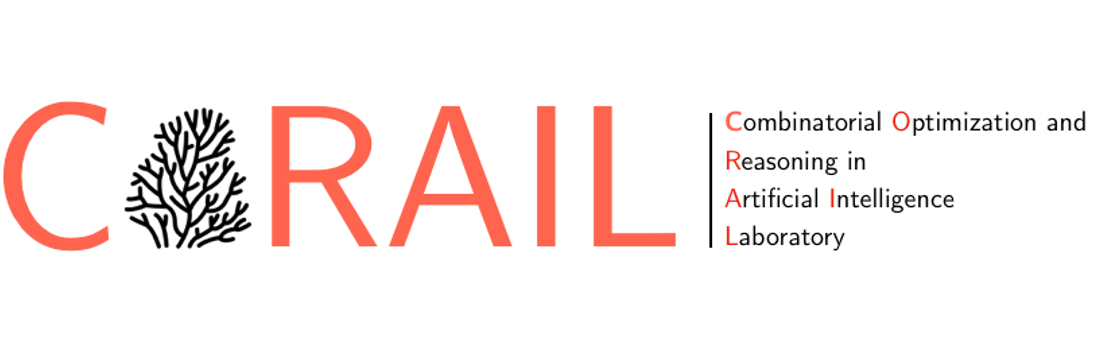
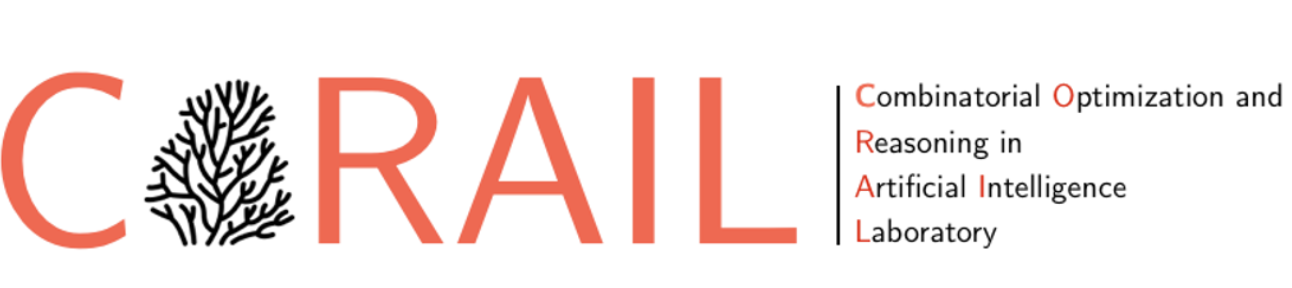
WIP added INF574 gif

diff --git a/index.html b/index.html
@@ -24,7 +24,7 @@
   <table style="width:100%;max-width:920px;border:0px;border-spacing:0px;border-collapse:separate;margin-right:auto;margin-left:auto;"><tbody>
       <tbody><tr><td>
           <p style="text-align:center">
-              <img src="images/Corail_full.png" alt="nav_sign" width="700" height="220">
+              <img src="images/Corail_full.png" alt="nav_sign" width="700" height="150">
             <br>
             <email>
                 <font id="email" size="+1" style="display:inline;">tom.marty@polymtl.ca</font>
@@ -232,7 +232,7 @@
 		
 		</td>
 	</tr>
-	<td width="25%" valign="center" align="center"><img src="images/sketch.png" alt="nthu" width="180" height="180"></td>
+	<td width="25%" valign="center" align="center"><img src="images/INF574.gif" alt="nthu" width="220" height="210"></td>
 		<td style="padding:20px;width:75%;vertical-align:middle">
 		<a class="tog" href="https://github.com/3rdCore/Shape_Retrieval/" target="_blank">
 			<papertitle>Sketch-based Shape Retrieval</papertitle>
@@ -247,7 +247,6 @@
 		The project lies on differents techniques such Suggestive Contouring (Canny filter), Gabor filtering (gaussian convolution on Fourier Transformation of the input image) and histogram representation using Visual Vocabulary. 
 		<br>
 		Looking back at this project, I saw that <a class="tog" href="https://arxiv.org/abs/1504.03504" target="_blank">another paper</a> with much more impressive results came out a few years later using <strong>Siamese convolutional Neural Networks</strong> for feature extraction. 
-		<br>
 		<p style="padding:0%;text-align:center">
 			<a href="data/INF574.pdf" target="_blank">Report</a> &nbsp/&nbsp
 			<a href="https://github.com/3rdCore/Shape_Retrieval/" target="_blank">GitHub</a>
